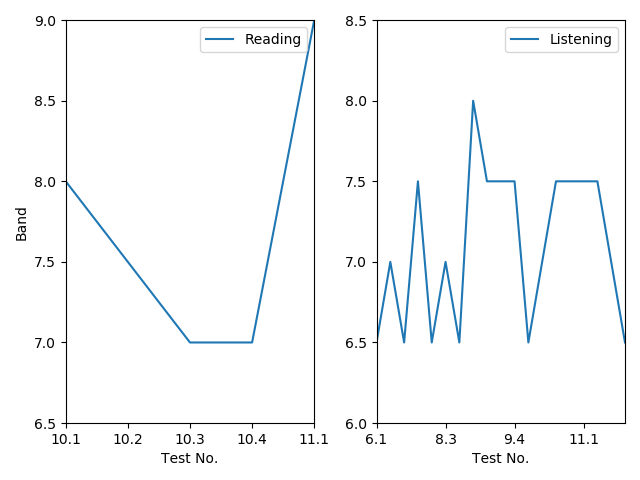
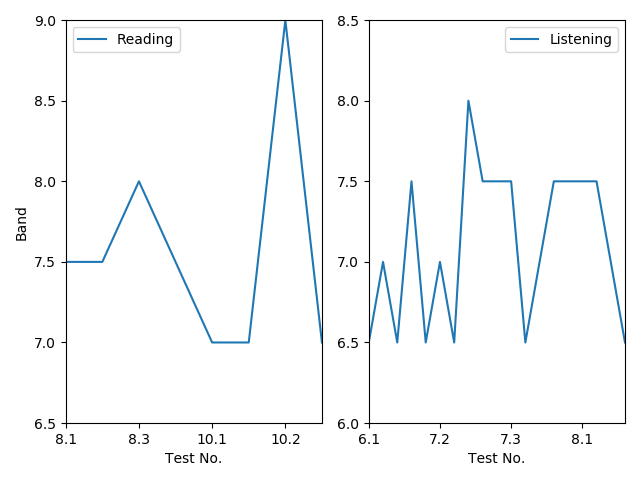
Update testing notes

diff --git a/Test_notes/plot_band.py b/Test_notes/plot_band.py
@@ -16,6 +16,10 @@ listening.plot(x='Test', y='Band', ax=axes[1], kind='line', ylim=[6, 8.5], label
 axes[0].set_xlabel("Test No.")
 axes[1].set_xlabel("Test No.")
 axes[0].set_ylabel("Band")
+# axes[0].set_xticks(read['Test'].index)
+axes[0].set_xticklabels(read['Test'].values)
+axes[1].set_xticklabels(listening['Test'].values)
 
 plt.tight_layout()
 plt.savefig('band.png')
+# plt.show()

diff --git a/Test_notes/reading.md b/Test_notes/reading.md
@@ -103,3 +103,26 @@
 | Q31       |      | Synonymous replacement: emotions --> feelings; Don't forget the first paragraph when filling. |          |
 | Q40       |      | From the global view                                         |          |
 
+## IELTS 8 TEST3 (7.5)
+
+|      | True | False                                                        | Not Sure |
+| ---- | ---- | ------------------------------------------------------------ | -------- |
+| Q14  |      | Unknown word: defective                                      |          |
+| Q15  |      | Need to read the whole paragraph in detail if the question is based on specific one |          |
+| Q19  |      | Didn't find the keyword and read the whole paragraph         |          |
+| Q22  |      | Couldn't get the point of the sentence                       |          |
+| Q23  |      | didn't find the key sentence                                 |          |
+| Q37  |      |                                                              |          |
+
+## IELTS 8 TEST1 (7.5)
+
+|      | True | False                                                        | Not Sure |
+| ---- | ---- | ------------------------------------------------------------ | -------- |
+| Q14  |      | Please focus on keyword if I don't understand words in the Headings |          |
+| Q16  |      | Neglect the sentence after the first sentence                |          |
+| Q22  |      | Please remember "must be mentioned, must be opposed"         |          |
+| Q24  |      | Information may be deduced from two paragraphs               |          |
+| Q26  |      | Didn't find the keyword. Unknown word: metropolitan -- city  |          |
+| Q29  |      | Didn't understand the last paragraph quite well. Need to be patient at the end of last article |          |
+| Q30  |      | as same as above                                             |          |
+| Q38  |      | the right answer just before it; if I meet the clause, I need to choose the word in the main sentence. |          |

diff --git a/Test_notes/listening.md b/Test_notes/listening.md
@@ -307,6 +307,21 @@
 | 12.6.4     | 31   | Unknown word: bullying      |
 |            | 40   | Unknown word: mediator      |
 
+## IELTS 14 TEST1 (7)
+
+| Test       | No.  | Reason                                           |
+| ---------- | ---- | ------------------------------------------------ |
+| 14.1.1     | 3    | Forgot to check the next empty blank             |
+|            | 7    | Forgot to check the next empty blank             |
+|            | 9    | Unknown word: blown --> blond                    |
+| **14.1.2** | 12   | don't write down many details and don't scribble |
+|            | 13   | don't write down many details                    |
+|            | 17   | Not hear clearly                                 |
+| 14.1.3     | 21   | Feel free to listen                              |
+|            | 22   | Feel free to listen, don't judge on my own       |
+|            | 27   | Disturbance, Pay attention to "better"           |
+|            | 29   | Please believe the first sense                   |
+
 # Summary
 
 | Test | Band |
@@ -331,4 +346,17 @@
 | 11.3 | 7    |
 | 11.4 | 6.5  |
 | 12.5 | 6.5  |
+| 12.6 | 7.5  |
+| 14.1 | 7    |
+| 14.4 | 6.5  |
+
+## Note
+
+Take a look at Section 1 ~ 5 seconds before the beginning of the example.
+
+If possible, please finish each section after the end of that.
+
+Pay attention to "better"
+
+Follow the capital or lowercase
 
